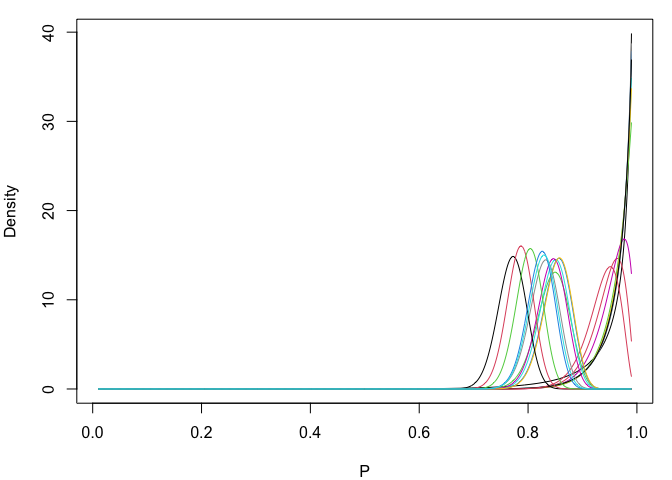
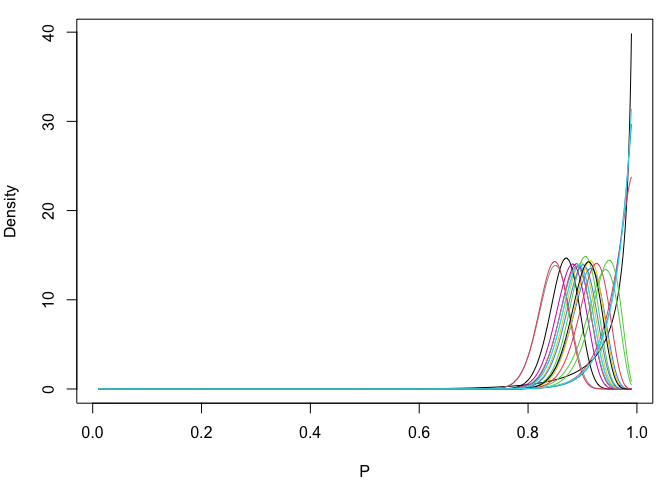
Updated ABM based on observed data
Updated the ABM so that the population sizes, leave probabilities, and initial climbing times are based on the real data.

Changed region(s): [[0.6875, 0.2812, 0.9375, 0.8125]]

diff --git a/README.md b/README.md
@@ -130,7 +130,7 @@ Now, how do we use these beta distributions in combination with hold
 sequences? First, let’s look at a diagram of the standardized speed
 wall.
 
-<img src="https://walltopia.com/images/climbing_walls/speedwall-sketch.png" width="50%" style="display: block; margin: auto;" />
+<img src="https://www.kindpng.com/picc/m/592-5929143_speed-climbing-wall-sketch-speed-climbing-route-map.png" width="65%" style="display: block; margin: auto;" />
 
 As you can see, the standardized speed wall has a total of 20 hand holds
 and 11 foot holds. Speed climbers often “smear” their feet on the wall
@@ -141,18 +141,18 @@ along with a vector of reference times for the amount of time spent on
 each hold. For now the beta vectors will start out as all TRUE, so that
 all climbers start out using every hold in the route. The reference
 times will be drawn from truncated normal distributions with a lower
-bound at 0, a mean of the initial mean speed (let’s say 18 seconds)
+bound at 0, a mean of an initial climbing time (let’s say 18 seconds)
 divided by the number of holds on the route, and a standard deviation of
 the mean divided by a parameter that controls the initial variation in
 times across holds. Here is an example of how the beta and reference
-time vectors are intialized.
+time vectors are initialized.
 
 ``` r
 #set number of holds
 n_holds <- 20
 
 #set initial mean speed
-init_mean <- 18
+init_time <- 18
 
 #set probability of initial beta holds at 1 (all holds on the route)
 beta_true_prob <- 1
@@ -164,7 +164,7 @@ sd_divider <- 10
 beta <- sample(c(TRUE, FALSE), n_holds, prob = c(beta_true_prob, 1-beta_true_prob), replace = TRUE)
 
 #initialize ref times
-ref_times <- truncnorm::rtruncnorm(n_holds, a = 0, mean = init_mean/n_holds, sd = (init_mean/n_holds)/sd_divider)
+ref_times <- truncnorm::rtruncnorm(n_holds, a = 0, mean = init_time/n_holds, sd = (init_time/n_holds)/sd_divider)
 
 #print the vectors
 beta
@@ -177,9 +177,9 @@ beta
 ref_times
 ```
 
-    ##  [1] 0.9641434 0.9046872 0.9516921 0.9903176 0.7281749 0.7279846 0.9922286
-    ##  [8] 0.9368182 0.7314282 0.8235588 0.9658065 0.7373008 1.0202630 0.8934016
-    ## [15] 0.9518878 0.8365827 0.9235830 0.8164345 0.7016657 0.8845892
+    ##  [1] 0.8038051 0.8593267 0.7700473 0.9091619 1.0854914 0.9513782 0.8701519
+    ##  [8] 0.9408317 0.8804831 0.9408589 0.9188010 0.9049235 0.8022548 0.9892346
+    ## [15] 0.5895793 0.9927162 0.7099631 0.7919213 0.8809420 0.9009371
 
 In each timestep, each climber has the same `innov_prob` probability of
 innovation. Innovations are changes to the beta of the route, in this
@@ -190,11 +190,12 @@ allowed in the model (to simulate the fact that skipping three holds in
 a row and still being able to complete the route is *extremely*
 unlikely). When a boolean flip occurs (i.e. when a hold is added to or
 dropped from the beta) the `ref_times` of the adjacent holds are
-resampled, since the amount of time spent on the adjacent holds is
-dependent on the presence of the added/dropped hold. When each climber
-innovates, they compare the overall route time for their current beta
-with the innovated beta, and if the innovated beta is better then they
-overwrite their current beta. See `SpeedClimbingABM.R` for details.
+resampled (based on the mean initial climbing times of the population),
+since the amount of time spent on the adjacent holds is dependent on the
+presence of the added/dropped hold. When each climber innovates, they
+compare the overall route time for their current beta with the innovated
+beta, and if the innovated beta is better then they overwrite their
+current beta. See `SpeedClimbingABM.R` for details.
 
 ## Social Learning
 
@@ -210,15 +211,15 @@ details.
 ## Dynamic Population Size
 
 We also allow the population size to grow over time. For now we just
-have an initial population size of `n` climbers, a growth rate of
-`growth_rate`, and a probability of leaving the sport of `leave_prob`.
-Basically, at the end of each timestep a random subset of climbers leave
-the sport, and new climbers enter the sport to bring the population up
-to the size specified by `growth_rate`. The probability of a climber
-leaving the sport is a function of how far their current record is from
-the current best as well as how long they’ve been in the sport, so older
-climbers with slower times are more likely to leave. Specifically it is
-their `current_record` divided by the minimum `current_record` in the
+have a dynamic population size of `n` climbers and the probability
+`leave_prob` of leaving the sport in each timestep. Basically, at the
+end of each timestep a random subset of climbers leave the sport, and
+new climbers enter the sport to bring the population up to the size
+specified by `n`. The probability of a climber leaving the sport is a
+function of how far their current record is from the current best as
+well as how long they’ve been in the sport, so older climbers with
+slower times are more likely to leave. Specifically it is their
+`current_record` divided by the minimum `current_record` in the
 population multiplied by `age`, or the number of timesteps that they
 have been in the sport. Each new climber that enters the sport inherits
 information from two randomly sampled climbers from that timestep:
@@ -234,21 +235,51 @@ the functions in this file for details.
 source("SpeedClimbingABM.R")
 ```
 
-Let’s do a test run of this model with a population size of 200 over 15
-timesteps with a growth rate of 5%, with a 0.2 probability of climbers
-leaving the sport during each timestep, an initial climbing time of 18
-seconds across 20 holds where the climbers start out using every hold, a
-0.2 probability of learning from the top 50 climbers, and a 0.1
-probability of innovation where no more than 3 adjacent holds can be
-skipped.
+Let’s do a test run of this model based on the observed data for male
+climbers.
 
 ``` r
-output <- SpeedClimbingABM(n = 200, t = 15, growth_rate = 0.05, leave_prob = 0.2, init_mean = 18,
-                           n_holds = 20, beta_true_prob = 1, learn_prob = 0.2, n_top = 50,
-                           innov_prob = 0.1, adj_poss = 3, rate_sd = 5, sd_divider = 10)
+load("data.RData")
+
+#subset to males
+data <- data[which(data$gender == "M"), ]
 ```
 
-![](README_files/figure-gfm/unnamed-chunk-10-1.png)<!-- -->
+First we need the observed population sizes, leave probabilities, and
+initial climbing times.
+
+``` r
+#get years
+years <- sort(unique(data$year))
+
+#population sizes
+n <- unlist(lapply(1:length(years), function(x){nrow(data[which(data$year == years[x]), ])}))
+
+#leave probabilities
+leave_prob <- unlist(lapply(1:(length(years)-1), function(x){
+  temp_a <- data[which(data$year == years[x]), ]
+  temp_b <- data[which(data$year == years[x+1]), ]
+  length(which(!(temp_a$athlete %in% temp_b$athlete)))/nrow(temp_a)
+}))
+
+#initial climbing times
+init_times <- data[which(data$year == years[1]), ]$time
+```
+
+Now let’s run the model with an initial population size of 53, a 0.4
+probability of learning from the top 20 climbers, and a 0.2 probability
+of innovation where no more than 3 adjacent holds can be skipped. The
+last two parameters, `bw` and `ylim`, control the density bandwidth and
+y-axis limit in the plot, respectively.
+
+``` r
+output <- SpeedClimbingABM(n = n, leave_prob = leave_prob, init_times = init_times,
+                           n_holds = 20, beta_true_prob = 1, learn_prob = 0.4, n_top = 20,
+                           innov_prob = 0.2, adj_poss = 3, rate_sd = 10, sd_divider = 2,
+                           bw = 0.6, ylim = 0.35)
+```
+
+![](README_files/figure-gfm/unnamed-chunk-12-1.png)<!-- -->
 
 In the above plot, each distribution (from right to left) is the
 distribution of `current_records` for climbers in the population in each
